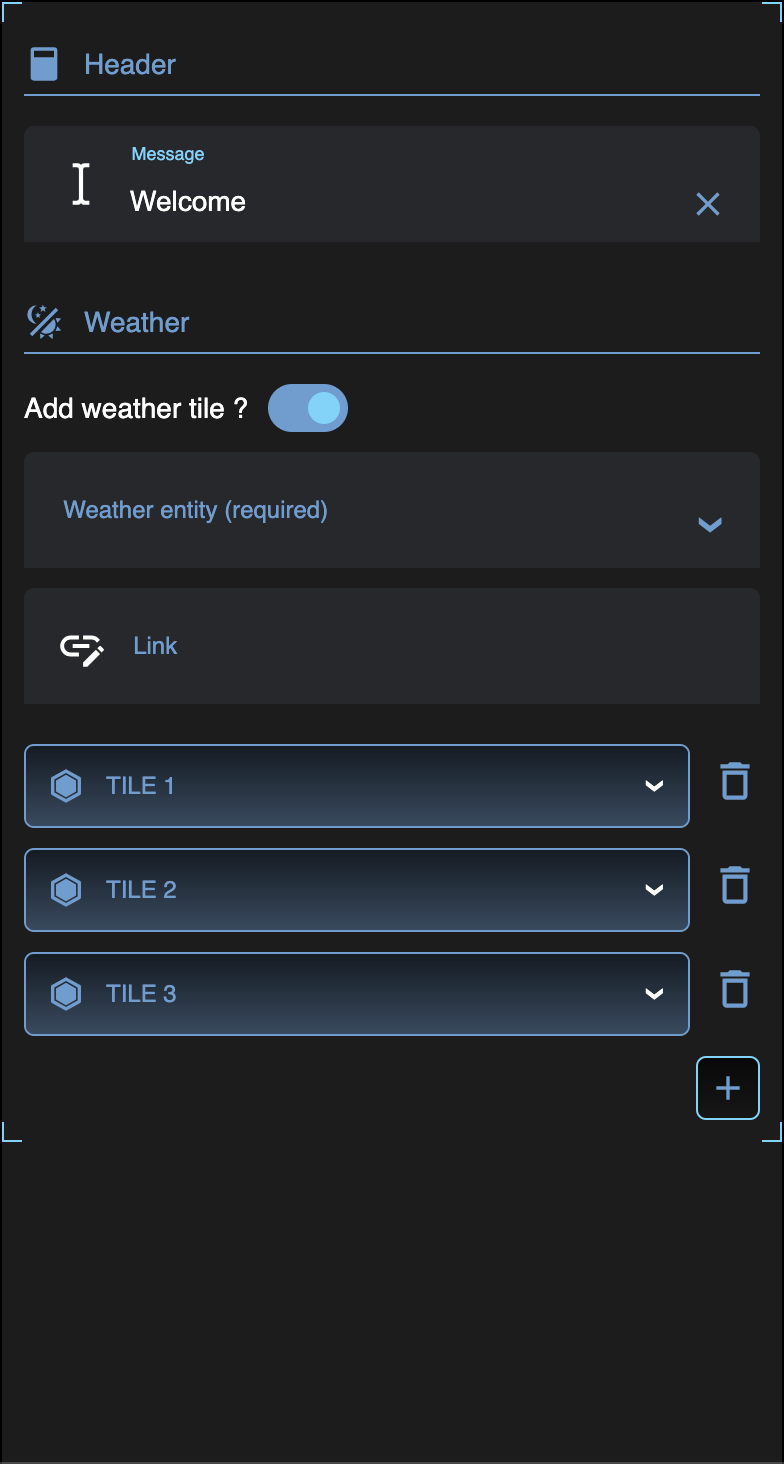
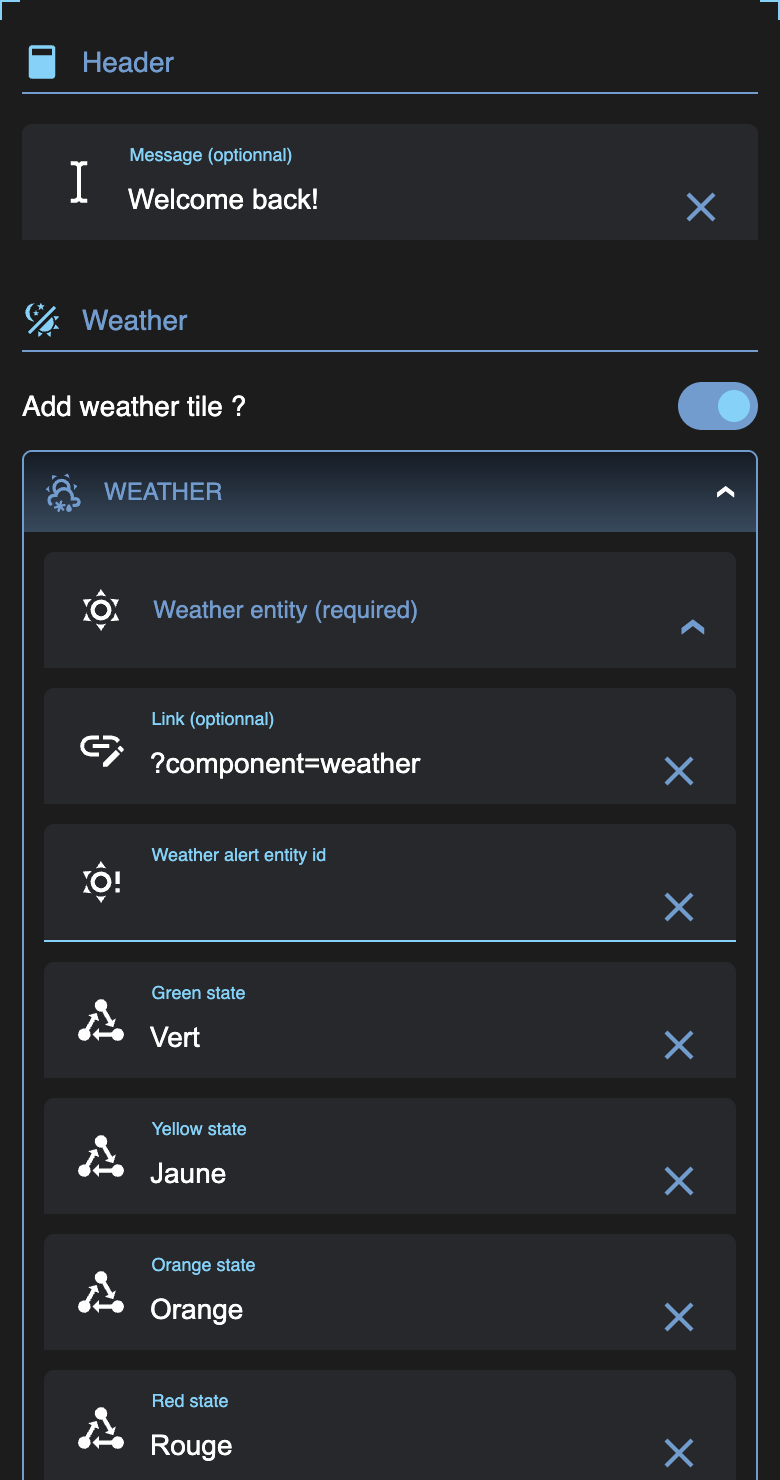
https://github.com/adrien-parasote/ha-sci-fi/issues/13

diff --git a/src/cards/hexa_tiles/editor.js b/src/cards/hexa_tiles/editor.js
@@ -92,11 +92,16 @@ export class SciFiHexaTilesEditor extends SciFiBaseEditor {
   }
 
   __renderWeatherEntities() {
-    return html`
+    return html` <sci-fi-accordion-card
+      title="${this.getLabel('section-title-weather')}"
+      icon="mdi:weather-partly-snowy-rainy"
+      open
+    >
       <sci-fi-dropdown-entity-input
         label="${this.getLabel('input-weather-entity')} ${this.getLabel(
           'text-required'
         )}"
+        icon="mdi:weather-sunny"
         element-id="weather"
         kind="weather_entity"
         value="${this._config.weather.weather_entity}"
@@ -113,7 +118,47 @@ export class SciFiHexaTilesEditor extends SciFiBaseEditor {
         kind="link"
         @input-update=${this.__update}
       ></sci-fi-input>
-    `;
+      <sci-fi-input
+        label="${this.getLabel('input-weather-alert-entity-id')}"
+        value=${this._config.weather.weather_alert_entity}
+        element-id="weather_alert_entity"
+        kind="weather_entity"
+        @input-update=${this.__update}
+        icon="mdi:weather-sunny-alert"
+      ></sci-fi-input>
+      <sci-fi-input
+        label="${this.getLabel('input-alert-green')}"
+        value=${this._config.weather.state_green}
+        element-id="state_green"
+        kind="weather_entity"
+        icon="mdi:state-machine"
+        @input-update=${this.__update}
+      ></sci-fi-input>
+      <sci-fi-input
+        label="${this.getLabel('input-alert-yellow')}"
+        value=${this._config.weather.state_yellow}
+        element-id="state_yellow"
+        kind="weather_entity"
+        icon="mdi:state-machine"
+        @input-update=${this.__update}
+      ></sci-fi-input>
+      <sci-fi-input
+        label="${this.getLabel('input-alert-orange')}"
+        value=${this._config.weather.state_orange}
+        element-id="state_orange"
+        kind="weather_entity"
+        icon="mdi:state-machine"
+        @input-update=${this.__update}
+      ></sci-fi-input>
+      <sci-fi-input
+        label="${this.getLabel('input-alert-red')}"
+        value=${this._config.weather.state_red}
+        element-id="state_red"
+        kind="weather_entity"
+        icon="mdi:state-machine"
+        @input-update=${this.__update}
+      ></sci-fi-input>
+    </sci-fi-accordion-card>`;
   }
 
   __renderTiles() {

diff --git a/src/components/sf-tiles.js b/src/components/sf-tiles.js
@@ -20,14 +20,13 @@ class SciFiHexaTile extends LitElement {
       common_style,
       css`
         :host {
-          --border: var(--hexa-border, var(--secondary-light-alpha-color));
-          --background: var(--hexa-background, var(--primary-bg-color));
+          --custom-border: var(--hexa-border);
         }
         .hexa {
           width: var(--hexa-width);
         }
         .hexa svg .background {
-          fill: var(--background);
+          fill: var(--primary-bg-color);
           stroke-width: 4px;
           stroke: var(--secondary-bg-color);
           stroke-opacity: 0.8;
@@ -35,7 +34,7 @@ class SciFiHexaTile extends LitElement {
         }
         .hexa svg .border {
           fill: var(--primary-bg-color);
-          stroke: var(--border);
+          stroke: var(--custom-border, var(--secondary-light-alpha-color));
           stroke-width: 5px;
           stroke-linejoin: round;
         }
@@ -53,14 +52,15 @@ class SciFiHexaTile extends LitElement {
           text-align: center;
         }
         .item-on svg .border {
-          stroke: var(--primary-light-color);
+          stroke: var(--custom-border, var(--primary-light-color));
         }
         .item-on .item-content {
-          color: var(--primary-light-color);
-          text-shadow: 0px 0px 5px var(--secondary-light-color);
+          color: var(--custom-border, var(--primary-light-color));
+          text-shadow: 0px 0px 5px
+            var(--custom-border, var(--secondary-light-color));
         }
         .item-off .item-content {
-          color: var(--secondary-bg-color);
+          color: var(--custom-border, var(--secondary-bg-color));
           text-shadow: none;
         }
         .item-error svg .border {

diff --git a/src/cards/hexa_tiles/card.js b/src/cards/hexa_tiles/card.js
@@ -78,10 +78,28 @@ export class SciFiHexaTiles extends SciFiBaseCard {
     const sun_entity = this._hass.states['sun.sun'];
     const weather_entity =
       this._hass.states[this._config.weather.weather_entity];
+    const weather_alert_state = this._config.weather.weather_alert_entity
+      ? this._hass.states[this._config.weather.weather_alert_entity]
+        ? this._hass.states[this._config.weather.weather_alert_entity].state
+        : null
+      : null;
+
+    //Define state if possible
+    let alert = null;
+    if (weather_alert_state) {
+      const alert_extract = [
+        'state_green',
+        'state_yellow',
+        'state_orange',
+        'state_red',
+      ].filter((state) => this._config.weather[state] == weather_alert_state);
+      alert = alert_extract.length > 0 ? alert_extract[0].split('_')[1] : null;
+    }
     return {
       state: weather_entity.state,
       name: weather_entity.attributes.friendly_name,
       day: sun_entity.state == 'above_horizon',
+      alert: alert,
     };
   }
 
@@ -202,13 +220,14 @@ export class SciFiHexaTiles extends SciFiBaseCard {
 
   __getWeatherTile() {
     const state = this._weather.day ? 'on' : 'off';
+    const alert = this._weather.alert ? this._weather.alert : '';
     return html`
       <a href="${this._config.weather.link}">
         <sci-fi-hexa-tile
           id="weather-tile"
           active-tile
           state=${state}
-          class="state-${state}"
+          class="state-${state} ${alert}"
         >
           <div class="item-icon">
             <sci-fi-weather-icon

diff --git a/src/cards/hexa_tiles/style.js b/src/cards/hexa_tiles/style.js
@@ -72,4 +72,22 @@ export default css`
   .container .hexa-row sci-fi-hexa-tile[active-tile].state-error sci-fi-icon {
     --icon-color: var(--primary-error-color);
   }
+  #weather-tile[state='off'].yellow {
+    --hexa-border: var(--primary-warning-alpha-color);
+  }
+  #weather-tile.yellow {
+    --hexa-border: var(--primary-warning-color);
+  }
+  #weather-tile[state='off'].orange {
+    --hexa-border: var(--primary-error-alpha-color);
+  }
+  #weather-tile.orange {
+    --hexa-border: var(--primary-error-color);
+  }
+  #weather-tile[state='off'].red {
+    --hexa-border: var(--primary-emergency-alpha-color);
+  }
+  #weather-tile.red {
+    --hexa-border: var(--primary-emergency-color);
+  }
 `;

diff --git a/src/cards/hexa_tiles/config-metadata.js b/src/cards/hexa_tiles/config-metadata.js
@@ -24,6 +24,31 @@ export default {
         type: 'string',
         default: '',
       },
+      weather_alert_entity: {
+        mandatory: false,
+        type: 'string',
+        default: null,
+      },
+      state_green: {
+        mandatory: false,
+        type: 'string',
+        default: null,
+      },
+      state_yellow: {
+        mandatory: false,
+        type: 'string',
+        default: null,
+      },
+      state_orange: {
+        mandatory: false,
+        type: 'string',
+        default: null,
+      },
+      state_red: {
+        mandatory: false,
+        type: 'string',
+        default: null,
+      },
     },
   },
   tiles: {

diff --git a/src/helpers/styles/common_style.js b/src/helpers/styles/common_style.js
@@ -12,6 +12,8 @@ export default css`
     --secondary-light-alpha-color: rgba(102, 156, 210, 0.5);
     --secondary-light-light-alpha-color: rgba(102, 156, 210, 0.2);
 
+    --primary-warning-color: rgb(255, 215, 0);
+    --primary-warning-alpha-color: rgba(255, 215, 0, 0.5);
     --primary-error-color: rgb(250, 146, 29);
     --primary-error-alpha-color: rgba(250, 146, 29, 0.9);
     --primary-error-light-alpha-color: rgba(250, 146, 29, 0.3);

diff --git a/src/helpers/utils/base_editor.js b/src/helpers/utils/base_editor.js
@@ -130,6 +130,7 @@ export class SciFiBaseEditor extends LitElement {
       'input-icon-header-section-summer': msg('Summer period icon'),
       'input-entities-to-exclude': msg('Entities to exclude'),
       'input-icon': msg('Icon'),
+      'input-weather-alert-entity-id': msg('Weather alert entity id'),
       'input-icon-auto': msg('Icon auto'),
       'input-icon-off': msg('Icon off'),
       'input-icon-heat': msg('Icon heat'),

diff --git a/src/locales/locales/fr.js b/src/locales/locales/fr.js
@@ -72,6 +72,7 @@ export const templates = {
   s4ddace054ce4ce18: `Zone actuelle de ménage`,
   s4f676d1aecd06b8c: `Ensoleillé`,
   s54d1b2a64667e32e: `Caméra`,
+  s57a172ce127a124d: `Entité alerte météo`,
   s57d9a94354d2f90f: `Puissance consommée du poêle`,
   s585dfbb29d3568cc: `booster`,
   s5a0b7879d5920086: `Quantité de carburant`,

diff --git a/tests/config/config_hexa.js b/tests/config/config_hexa.js
@@ -4,6 +4,11 @@ export default {
     activate: true,
     weather_entity: 'weather.la_chapelle_sur_erdre',
     link: '?component=weather',
+    weather_alert_entity: 'sensor.44_weather_alert',
+    state_green: 'Vert',
+    state_yellow: 'Jaune',
+    state_orange: 'Orange',
+    state_red: 'Rouge',
   },
   tiles: [
     {

diff --git a/README.md b/README.md
@@ -91,6 +91,7 @@ On top, you can configure your card with visibility option, allowing you to disp
 - Weather (optional) tile: special weather tile based on following entities:
   - `sun.sun` 
   - `weather.<my_city>`
+  - `sensor.<weather_alert_my_city>`
 - Custom tiles rendering status (standalone or kind)
 
 > [!CAUTION]
@@ -132,6 +133,11 @@ weather:
   activate: true
   weather_entity: weather.home  # replace with your weather providers's entity id
   link: weather_home  # replace with your weather page link
+  weather_alert_entity: sensor.weather_alert # replace with your weather alert providers's entity id
+  state_green: Green # replace with your weather alert providers's green state
+  state_yellow: Yellow # replace with your weather alert providers's yellow state
+  state_orange: Orange # replace with your weather alert providers's orange state
+  state_red: Red # replace with your weather alert providers's red state
 tiles:
   - standalone: false
     entity_kind: light
@@ -189,6 +195,11 @@ tiles:
 | activate | Boolean | **Optional** | Flag to activate or not weather special tiles | `false` |
 | weather_entity | String | **Required** (if weather.activate = true) | Your provider weather entity id  |  |
 | link | String | **Optional** | Link you want to follow when tile is tapped  | `''` |
+| weather_alert_entity | String | **Optional** | Your provider weather alert entity id  | `''` |
+| state_green | String | **Optional** | Green state alert (i.e.: no alert) | `''` |
+| state_yellow | String | **Optional** | Yellow state alert  | `''` |
+| state_orange | String | **Optional** | Orange state alert | `''` |
+| state_red | String | **Optional** | Red state alert   | `''` |
 
 **Example**
 ```yaml
@@ -196,6 +207,11 @@ weather:
   activate: true
   weather_entity: weather.home  # replace with your weather providers's entity id
   link: weather_home  # replace with your weather page link
+  weather_alert_entity: sensor.weather_alert # replace with your weather alert providers's entity id
+  state_green: Green # replace with your weather alert providers's green state
+  state_yellow: Yellow # replace with your weather alert providers's yellow state
+  state_orange: Orange # replace with your weather alert providers's orange state
+  state_red: Red # replace with your weather alert providers's red state
 ```
 <br>
 

diff --git a/CHANGELOG.md b/CHANGELOG.md
@@ -2,6 +2,11 @@
 
 # [v0.9.1](https://github.com/adrien-parasote/ha-sci-fi/releases/tag/0.9.1) - YYYY-MM-DD
 
+## 🆕 What's New
+
+⬡ Hexa card
+- [Hexa tiles - Weather color update](https://github.com/adrien-parasote/ha-sci-fi/issues/13)
+
 ## 💫 Enhancement
 - [Vacuum card - action and shortcuts icons size](https://github.com/adrien-parasote/ha-sci-fi/issues/44)
 
